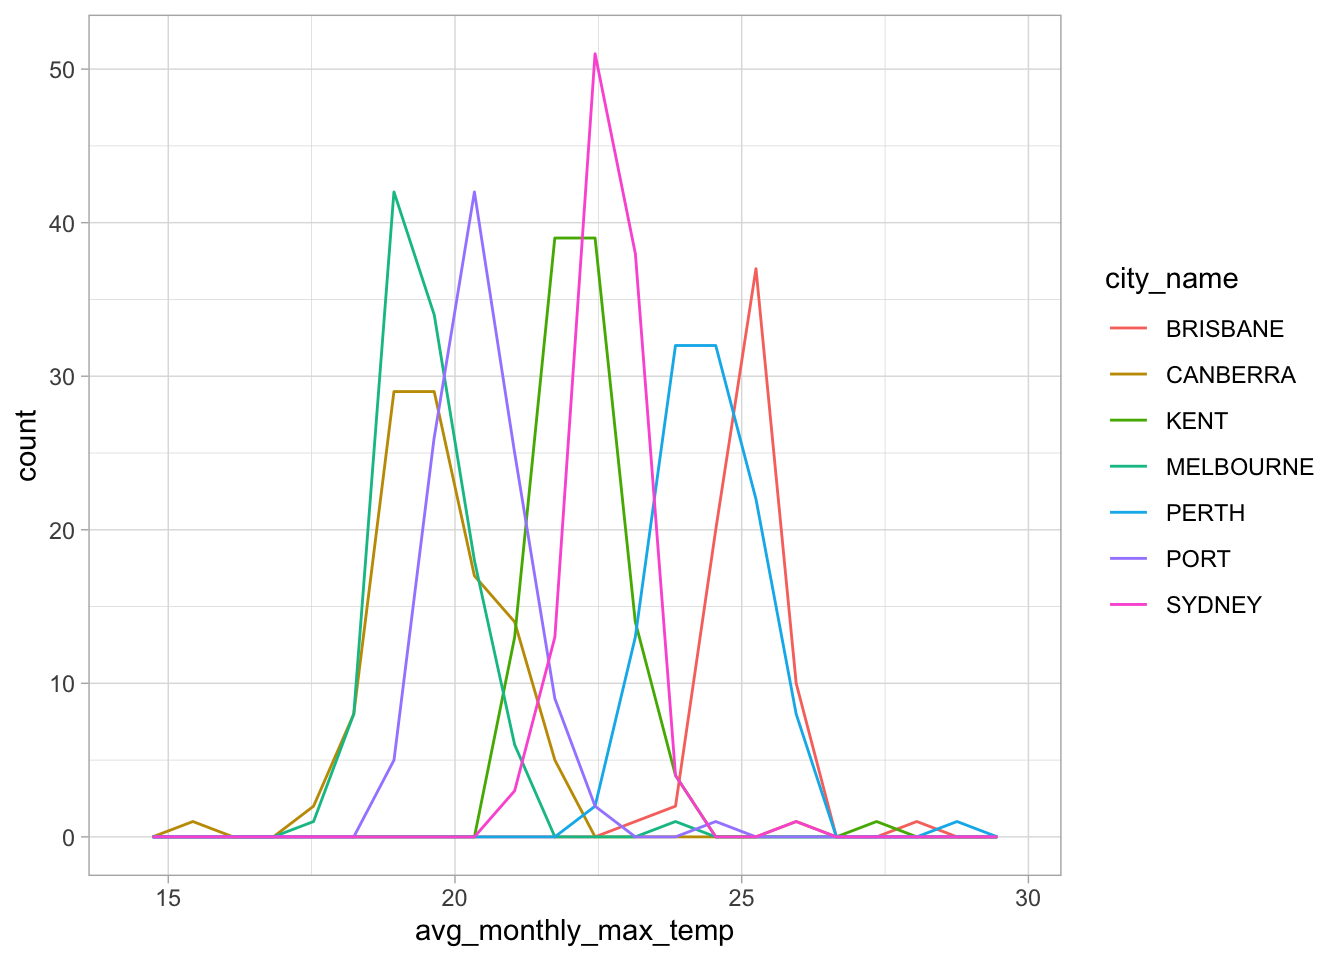
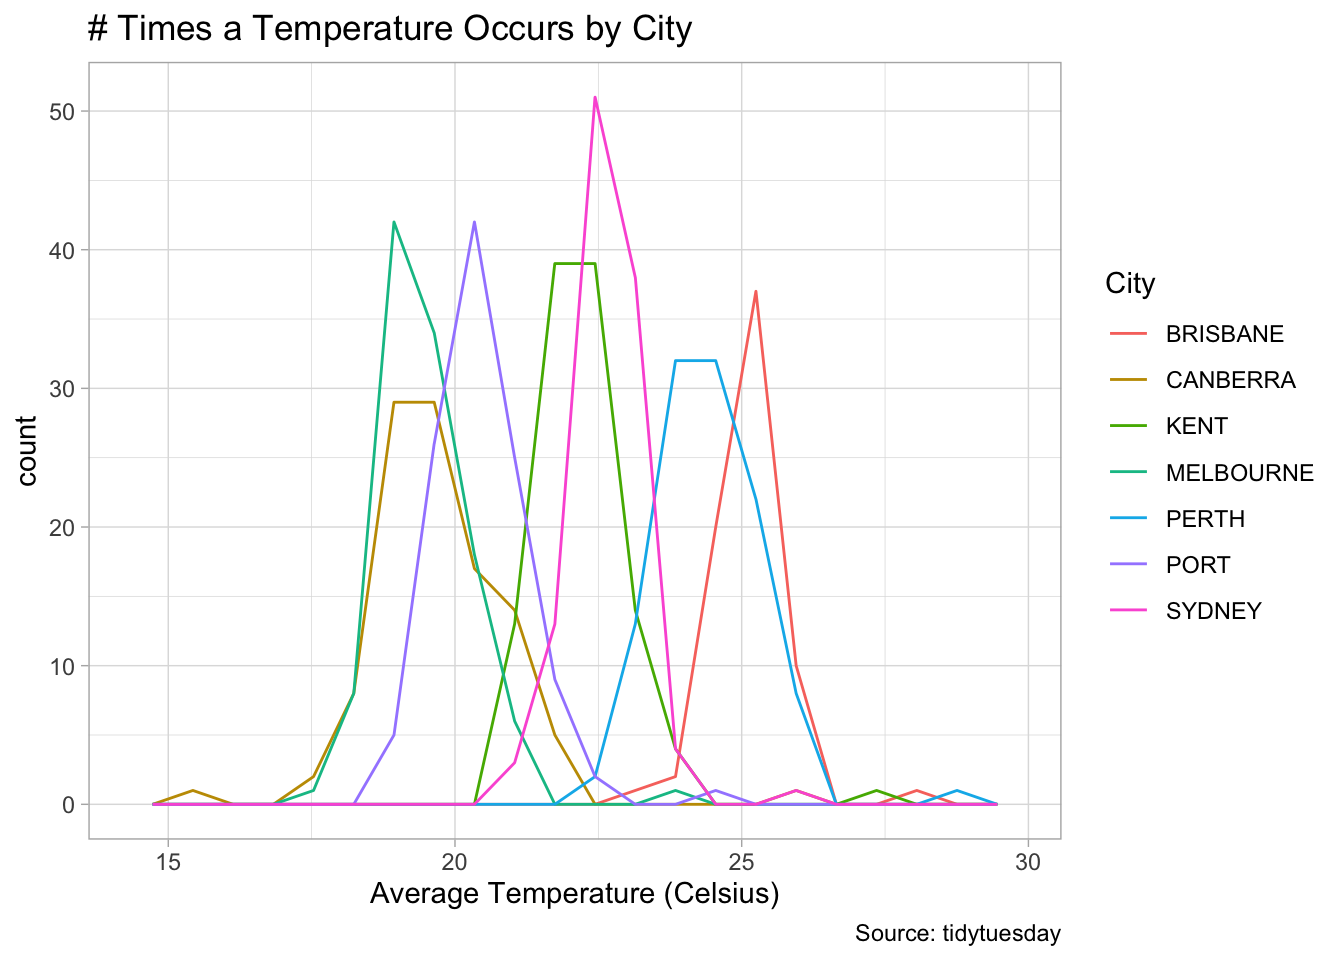
tidytues 1 - first pass

diff --git a/content/post/2020-08-25-tidytues-australia-fires/index.html b/content/post/2020-08-25-tidytues-australia-fires/index.html
@@ -20,6 +20,11 @@ editor_options:
 
 
 
+<p>Looking at temperature data in Australia from tidytuesday.</p>
+<p><em>Goal</em>: to get some plots up and running and learn aspects of tidyverse in action.</p>
+<p>Gave myself an hour; hit several roadblocks, but general flow of filtering, grouping, etc. was easy going. Roadblocks generally regarding ability to minutely change visuals and other fiddly things. Turns out this exploration was less about fires and more about temperature data for a given region.</p>
+<div id="look-at-temperature-data" class="section level2">
+<h2>Look at Temperature Data</h2>
 <pre class="r"><code>temperature &lt;- tuesdata$temperature
 
 # how many cities are there in the data?
@@ -35,32 +40,51 @@ temperature %&gt;%
 ## 5 PERTH     79926
 ## 6 PORT      79924
 ## 7 SYDNEY    79924</code></pre>
-<pre class="r"><code>theme_set(theme_light())</code></pre>
 <pre class="r"><code># some prep
 temperature &lt;- temperature %&gt;% 
   mutate(year = as.numeric(format(date, &quot;%Y&quot;,)),
          month = as.numeric(format(date, &quot;%m&quot;)))</code></pre>
+<div id="how-do-different-cities-in-australia-compare-over-time" class="section level3">
+<h3>How Do Different Cities in Australia Compare Over Time?</h3>
+<p>Spent a while making plots that had huge chunks missing. Realized I wasn’t removing <code>NAs</code> when calculating the mean. Can see a slight increase in temperature over time, but on the axis scale I chose, it’s hard to see. Would probably want to isolate each temperature type and see if the increase in temperature is more apparent.</p>
 <pre class="r"><code># look at max and min temps for each city over time
-
 temperature %&gt;% 
   group_by(city_name, year, temp_type) %&gt;% 
   summarise(avg_temp = mean(temperature, na.rm = TRUE)) %&gt;% 
+  
   ggplot(aes(year, avg_temp)) +
-    geom_line(aes(linetype = temp_type, color = temp_type)) +
-    facet_wrap(~ city_name)</code></pre>
-<pre><code>## `summarise()` regrouping output by &#39;city_name&#39;, &#39;year&#39; (override with `.groups` argument)</code></pre>
+    geom_line(aes(color = temp_type)) +
+    facet_wrap(~ city_name) +
+    labs(x = &quot;&quot;,
+         y = &quot;Average Temperature (Celsius)&quot;,
+         color = &quot;Temp Reading&quot;,
+         title = &quot;Australia Temps, 1910-2020&quot;,
+         caption = &quot;Source: tidytuesday&quot;) +
+    guides(linetype = FALSE)</code></pre>
 <p><img src="/post/2020-08-25-tidytues-australia-fires/index_files/figure-html/unnamed-chunk-5-1.png" width="672" /></p>
+</div>
+<div id="max-temperatures-by-city" class="section level3">
+<h3>Max Temperatures By City</h3>
+<p>Looking at the distribution of temperatures by city. Would be interesting to see if these peak max temperatures correlate with the location of the city.</p>
 <pre class="r"><code># max temperatures for each region over time
 temperature %&gt;% 
   filter(temp_type == &quot;max&quot;) %&gt;% 
   group_by(city_name, year) %&gt;% 
-  summarise(avg_monthly_max_temp = mean(temperature, na.rm = TRUE)) %&gt;% 
+  summarise(avg_max_temp = mean(temperature, na.rm = TRUE)) %&gt;% 
   
-  ggplot(aes(avg_monthly_max_temp, color = city_name)) +
-    geom_freqpoly(bins = 20)</code></pre>
+  ggplot(aes(avg_max_temp, color = city_name)) +
+    geom_freqpoly(bins = 20) +
+    labs(x = &quot;Average Temperature (Celsius)&quot;,
+         title = &quot;# Times a Temperature Occurs by City&quot;,
+         color = &quot;City&quot;,
+         caption = &quot;Source: tidytuesday&quot;)</code></pre>
 <pre><code>## `summarise()` regrouping output by &#39;city_name&#39; (override with `.groups` argument)</code></pre>
 <pre><code>## Warning: Removed 1 rows containing non-finite values (stat_bin).</code></pre>
 <p><img src="/post/2020-08-25-tidytues-australia-fires/index_files/figure-html/unnamed-chunk-6-1.png" width="672" /></p>
+</div>
+<div id="how-have-temperatures-changed-in-a-century" class="section level3">
+<h3>How Have Temperatures Changed in a Century?</h3>
+<p>Wanted to see how the temperature, both max and min, have changed over a long period. Filtered just for two years spanning a century and plotted the results. There are some concerns since Brisbane doesn’t seem to have data going back that far, but it does show an increase in both readings for all cities.</p>
 <pre class="r"><code># then and now
 temperature %&gt;% 
   filter(year %in% c(1919, 2019)) %&gt;% 
@@ -68,13 +92,33 @@ temperature %&gt;%
   summarise(avg_temp = mean(temperature, na.rm = TRUE)) %&gt;% 
   
   ggplot(aes(year, avg_temp, color = city_name)) +
-    geom_point(aes(shape = temp_type)) +
-    geom_line(aes(group = interaction(temp_type, city_name), linetype = temp_type))</code></pre>
+    geom_point() +
+    geom_line(aes(group = interaction(temp_type, city_name), linetype = temp_type)) +
+    scale_x_continuous(breaks = c(1919, 2019)) +
+    labs(x = &quot;&quot;,
+         y = &quot;Average Temperature (Celsius)&quot;,
+         linetype = &quot;Temp Reading&quot;,
+         color = &quot;City&quot;,
+         title = &quot;Australia Temps, Then &amp; Now&quot;,
+         subtitle = &quot;Average Max/Min Temps by City in 1919 and 2019&quot;,
+         caption = &quot;Source: tidytuesday&quot;)</code></pre>
 <pre><code>## `summarise()` regrouping output by &#39;city_name&#39;, &#39;year&#39; (override with `.groups` argument)</code></pre>
 <p><img src="/post/2020-08-25-tidytues-australia-fires/index_files/figure-html/unnamed-chunk-7-1.png" width="672" /></p>
+</div>
+</div>
 <div id="learning" class="section level2">
 <h2>Learning</h2>
 <ul>
-<li>without as.numeric, years get crowded</li>
+<li>Without <code>as.numeric</code>, years on the x-axis got crowded since they were being plotted as distinct values. Moved this out into early data prep when I realized I was repeating myself for different plots.</li>
+<li>Was a challenge to get <code>geom_line()</code> to work as I wanted for last plot spanning a century. Used <code>interaction</code> after a <a href="https://stackoverflow.com/questions/12180515/using-geom-line-with-multiple-groupings">Stack Overflow search</a>, but was certainly a case of grabbing a tool without knowing how it works.</li>
+<li>Setting <code>guides</code> to <code>FALSE</code> for a given aesthetic is useful to suppress undesirable legends.</li>
+<li>Would be interested in exploring a more pleasing default color palette to reach for.</li>
+<li>I like adding a blank line between the data wrangling and the ggplot code to see the separation between the steps in the pipeline.</li>
+<li>I’m not sure how to remedy the warning/message about regrouping the output of <code>summarise()</code> and overwritting with <code>.groups</code> argument. It seems to happen since I group the data then also define a group in ggplot to draw the right number of lines. Would need further investigation.</li>
+<li>I hit a GitHub rate limit by rendering a blogdown post that was pinging the tidytuesday data too many times. Was initally confused since I thought blogdown was rate limited somehow! Adding <code>cache = FALSE</code> to the code chunk downloading the data helped to reduce this.</li>
 </ul>
+<div id="image-credit" class="section level4">
+<h4>Image Credit</h4>
+<p><a href="https://thenounproject.com/search/?creator=4129988&amp;q=fire&amp;i=2879653">Campfire</a> by Zach Bogart from <a href="https://thenounproject.com/">the Noun Project</a></p>
+</div>
 </div>

diff --git a/content/home/blog.md b/content/home/blog.md
@@ -15,7 +15,7 @@ subtitle = "Working with Data (and other adventures)"
   page_type = "post"
   
   # Choose how much pages you would like to display (0 = all pages)
-  count = 3
+  count = 5
   
   # Choose how many pages you would like to offset by
   offset = 0
